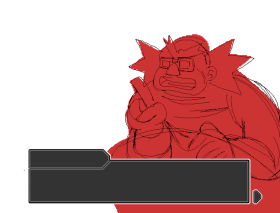
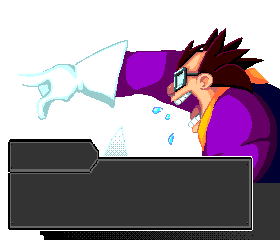
New dialogue sprites. New dialogue after extraction.

diff --git a/main/modes/games/bigbug/entity_bigbug.c b/main/modes/games/bigbug/entity_bigbug.c
@@ -202,9 +202,25 @@ void bb_updateRocketLiftoff(bb_entity_t* self)
     {
         self->pos.y = -77136;
         bb_destroyEntity(rData->flame, false);
+        
+        bb_entity_t* ovo = bb_createEntity(&self->gameData->entityManager, NO_ANIMATION, true, OVO_TALK, 1,
+                                self->gameData->camera.camera.pos.x, self->gameData->camera.camera.pos.y, true, true);
+        bb_dialogueData_t* dData = bb_createDialogueData(5); // 5
+        strncpy(dData->character, "Dr. Ovo", sizeof(dData->character) - 1);
+        dData->character[sizeof(dData->character) - 1] = '\0';
+        bb_setCharacterLine(dData, 0, "Gaaaash dangit!\0");
+        bb_setCharacterLine(dData, 1, "DARN it!\0");
+        bb_setCharacterLine(dData, 2, "That had a fresh coat of paint!\0");
+        bb_setCharacterLine(dData, 3, "I'll have to patch this up before all the air gets out.\0");
+        bb_setCharacterLine(dData, 4, "And the hardware store closes so early.\0");
+        dData->curString = -1;
+        dData->endDialogueCB = &bb_afterGarbotnikIntro;
+        bb_setData(ovo, dData, DIALOGUE_DATA);
+
         // Create a crumble animation
         bb_createEntity(&(self->gameData->entityManager), ONESHOT_ANIMATION, false, CRUMBLE_ANIM, 3,
                         self->pos.x >> DECIMAL_BITS, (self->pos.y >> DECIMAL_BITS) - 30, true, false);
+
         self->updateFunction = NULL;
         return;
     }
@@ -1068,6 +1084,8 @@ void bb_updateCharacterTalk(bb_entity_t* self)
 {
     bb_dialogueData_t* dData = (bb_dialogueData_t*)self->data;
 
+    dData->blinkTimer += 3;
+
     if (dData->offsetY < 0 && dData->curString < dData->numStrings)
     {
         dData->offsetY += 3;
@@ -1094,8 +1112,8 @@ void bb_updateCharacterTalk(bb_entity_t* self)
             dData->curString++;
             if (dData->curString < dData->numStrings)
             {
-                dData->loadedIdx = bb_randomInt(0, 7);
-                char wsg_name[strlen("ovo_talk") + 9]; // 6 extra characters makes room for up to a 2 digit number +
+                dData->loadedIdx = bb_randomInt(0, 6);
+                char wsg_name[strlen("ovo-talk-") + 9]; // 6 extra characters makes room for up to a 2 digit number +
                                                        // ".wsg" + null terminator ('\0')
                 snprintf(wsg_name, sizeof(wsg_name), "%s%d.wsg", "ovo_talk", dData->loadedIdx);
                 freeWsg(&dData->sprite);
@@ -1374,6 +1392,11 @@ void bb_drawCharacterTalk(bb_entityManager_t* entityManager, rectangle_t* camera
 
     drawWsgSimple(&dData->sprite, 0, -dData->offsetY);
 
+    if(dData->blinkTimer > 0)
+    {
+        drawWsgSimple(&dData->spriteNext, 258, -dData->offsetY + 170);
+    }
+
     if (dData->curString >= 0 && dData->curString < dData->numStrings)
     {
         drawText(&self->gameData->font, c344, dData->character, 13, 152);
@@ -1481,15 +1504,6 @@ void bb_onCollisionAttachmentArm(bb_entity_t* self, bb_entity_t* other, bb_hitIn
 
 void bb_startGarbotnikIntro(bb_entity_t* self)
 {
-    // Force draw a loading screen
-    fillDisplayArea(0, 0, TFT_WIDTH, TFT_HEIGHT, c123);
-
-    const char loadingStr[] = "Loading...";
-    int32_t tWidth          = textWidth(&self->gameData->font, loadingStr);
-    drawText(&self->gameData->font, c542, loadingStr, (TFT_WIDTH - tWidth) / 2,
-             (TFT_HEIGHT - self->gameData->font.height) / 2);
-    drawDisplayTft(NULL);
-
     // load all the tile sprites now that menu sprites where unloaded and camera motion has stopped.
     bb_loadWsgs(&self->gameData->tilemap);
 
@@ -1513,7 +1527,7 @@ void bb_startGarbotnikIntro(bb_entity_t* self)
     bb_setCharacterLine(dData, 8, "I'm so hyped to turn on my time machine for the first time!\0");
     bb_setCharacterLine(dData, 9, "Everything's in order.\0");
     bb_setCharacterLine(dData, 10, "Even Pango can't stop me!\0");
-    bb_setCharacterLine(dData, 11, "I just have to attach the chaos core right here.\0");
+    bb_setCharacterLine(dData, 11, "I just have to attach the chaos orb right here.\0");
     bb_setCharacterLine(dData, 12, "Where did I put that core?\0");
     bb_setCharacterLine(dData, 13, "hmmm...\0");
     bb_setCharacterLine(dData, 14, "What about in the freezer?\0");
@@ -1522,7 +1536,7 @@ void bb_startGarbotnikIntro(bb_entity_t* self)
     bb_setCharacterLine(dData, 17, "It must have gone out with the trash last Wednesday.\0");
     bb_setCharacterLine(dData, 18, "Can I get an F in the chat?\0");
     bb_setCharacterLine(dData, 19, "...\0");
-    bb_setCharacterLine(dData, 20, "The chaos core is three times denser than a black hole.\0");
+    bb_setCharacterLine(dData, 20, "The chaos orb is three times denser than a black hole.\0");
     bb_setCharacterLine(dData, 21, "Well if Garbotnik Sanitation Industries took it to the landfill,\0");
     bb_setCharacterLine(dData, 22, "then it is definitely at the VERY BOTTOM of the dump.\0");
     bb_setCharacterLine(dData, 23, "Not a problem.\0");
@@ -1818,11 +1832,12 @@ bb_dialogueData_t* bb_createDialogueData(uint8_t numStrings)
     bb_dialogueData_t* dData = HEAP_CAPS_CALLOC_DBG(1, sizeof(bb_dialogueData_t), MALLOC_CAP_SPIRAM);
     dData->numStrings        = numStrings;
     dData->offsetY           = -240;
-    dData->loadedIdx         = bb_randomInt(0, 7);
+    dData->loadedIdx         = bb_randomInt(0, 6);
     char wsg_name[strlen("ovo_talk") + 9]; // 6 extra characters makes room for up to a 2 digit number + ".wsg" + null
                                            // terminator ('\0')
     snprintf(wsg_name, sizeof(wsg_name), "%s%d.wsg", "ovo_talk", dData->loadedIdx);
     loadWsg(wsg_name, &dData->sprite, true);
+    loadWsg("dialogue_next.wsg\0", &dData->spriteNext, true);
 
     dData->strings = HEAP_CAPS_CALLOC_DBG(numStrings, sizeof(char*), MALLOC_CAP_SPIRAM);
     return dData;

diff --git a/main/modes/games/bigbug/entity_bigbug.h b/main/modes/games/bigbug/entity_bigbug.h
@@ -160,9 +160,11 @@ typedef struct
     int8_t curString;
     char character[8];
     bb_callbackFunction_t endDialogueCB; // executes when the character is done talking.
-    wsg_t sprite;                        // The current talking sprite
+    wsg_t sprite;                        // the current talking sprite
+    wsg_t spriteNext;                   // a blinking triangle right of the dialogue
     int8_t loadedIdx;                    // The current loaded sprite. -1 if none loaded.
     int16_t offsetY;                     // Track the sprite sliding up or down on screen.
+    int8_t blinkTimer;
 } bb_dialogueData_t;
 
 typedef void (*bb_updateFunction_t)(bb_entity_t* self);
